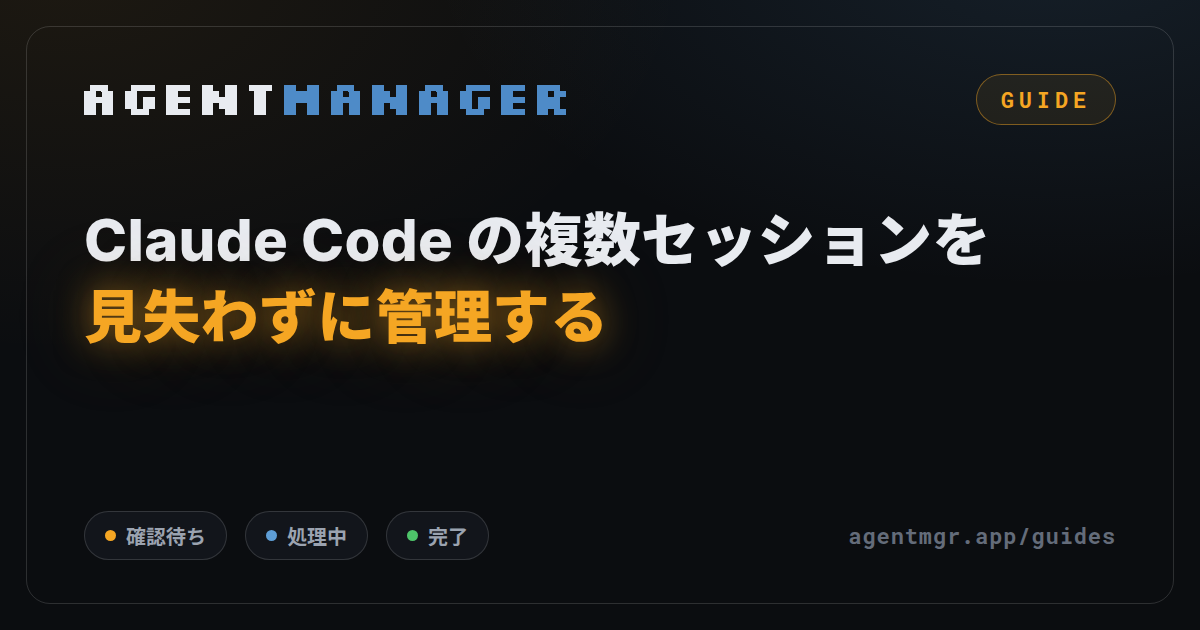
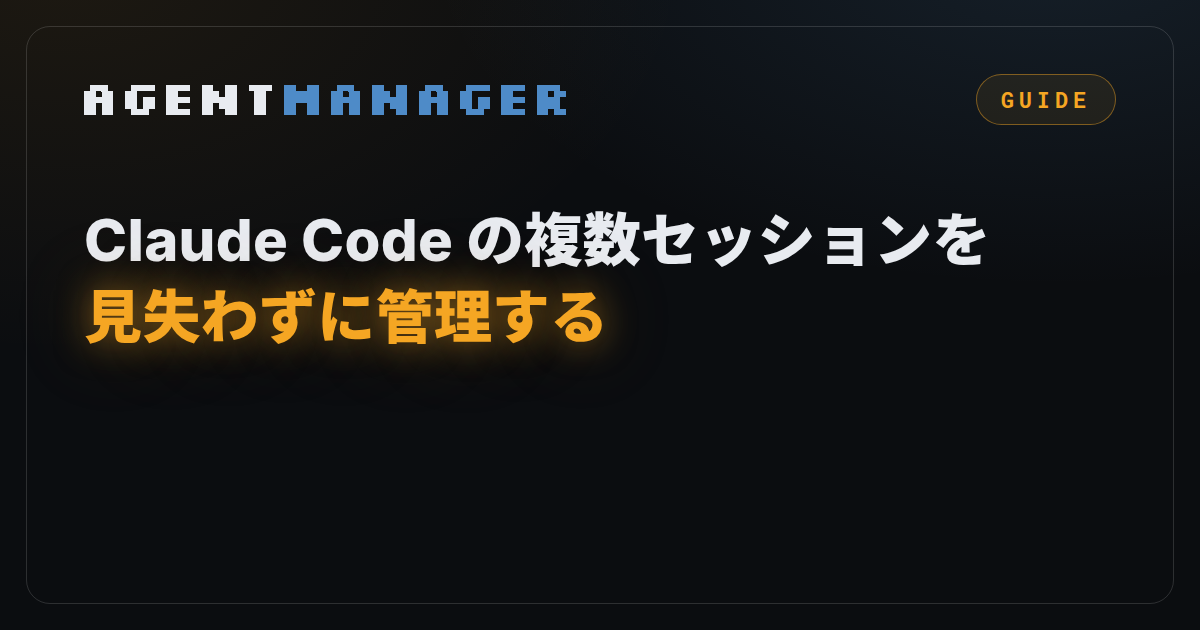
feat: OGP画像からステータスアイコン群とURL表記を削除
ガイドOGP画像の下部にあったステータスランプのチップ列と
agentmgr.app/guides のURL文字を取り除き、ロゴ・GUIDEチップ・
記事タイトルのみのシンプルな構成に変更。テンプレートと
生成スクリプトから該当要素・ラベル差し替え処理を削除し、6枚を再生成。

Claude-Session: https://claude.ai/code/session_013CzTDj4FuM4GGuY2hrSxaA

diff --git a/tools/og-guide-template.html b/tools/og-guide-template.html
@@ -48,23 +48,6 @@
     text-shadow: 0 0 34px rgba(245,166,35,.5), 0 0 80px rgba(245,166,35,.25);
   }
 
-  .bottom {
-    position: absolute; left: 0; right: 0; bottom: 0;
-    display: flex; align-items: center; justify-content: space-between;
-  }
-  .chips { display: flex; gap: 18px; }
-  .chip {
-    display: flex; align-items: center; gap: 10px;
-    padding: 9px 20px; border-radius: 999px;
-    background: #12151B; border: 1px solid rgba(255,255,255,.14);
-    font-weight: 700; font-size: 20px; color: #9BA3B0;
-  }
-  .dot { width: 11px; height: 11px; border-radius: 50%; }
-  .url {
-    font-family: 'Roboto Mono', ui-monospace, 'SF Mono', Menlo, monospace;
-    font-weight: 700; font-size: 22px; letter-spacing: .04em;
-    color: #646C7A;
-  }
 </style>
 </head>
 <body>
@@ -75,14 +58,6 @@
       <div class="kind">GUIDE</div>
     </div>
     <h1>{{TITLE_HTML}}</h1>
-    <div class="bottom">
-      <div class="chips">
-        <div class="chip"><span class="dot" style="background:#F5A623"></span>{{LABEL_WAITING}}</div>
-        <div class="chip"><span class="dot" style="background:#5E9ED6"></span>{{LABEL_RUNNING}}</div>
-        <div class="chip"><span class="dot" style="background:#4EC46A"></span>{{LABEL_DONE}}</div>
-      </div>
-      <div class="url">agentmgr.app/guides</div>
-    </div>
   </div>
 </body>
 </html>

diff --git a/tools/gen-guide-og.py b/tools/gen-guide-og.py
@@ -58,12 +58,6 @@ PAGES = {
     ),
 }
 
-LABELS = {
-    "en": ("Waiting", "Running", "Done"),
-    "ja": ("確認待ち", "処理中", "完了"),
-}
-
-
 def main() -> None:
     ap = argparse.ArgumentParser()
     ap.add_argument("--chromium", default=None,
@@ -81,14 +75,10 @@ def main() -> None:
         page = browser.new_page(viewport={"width": 1200, "height": 630})
 
         for slug, (lang, title_html, size) in PAGES.items():
-            waiting, running, done = LABELS[lang]
             html = (template
                     .replace("{{LANG}}", lang)
                     .replace("{{TITLE_HTML}}", title_html)
-                    .replace("{{TITLE_SIZE}}", str(size))
-                    .replace("{{LABEL_WAITING}}", waiting)
-                    .replace("{{LABEL_RUNNING}}", running)
-                    .replace("{{LABEL_DONE}}", done))
+                    .replace("{{TITLE_SIZE}}", str(size)))
             # ../logo-dark.svg の相対参照を効かせるため tools/ 配下に一時ファイルを置く
             with tempfile.NamedTemporaryFile(
                     "w", suffix=".html", dir=TEMPLATE.parent,
